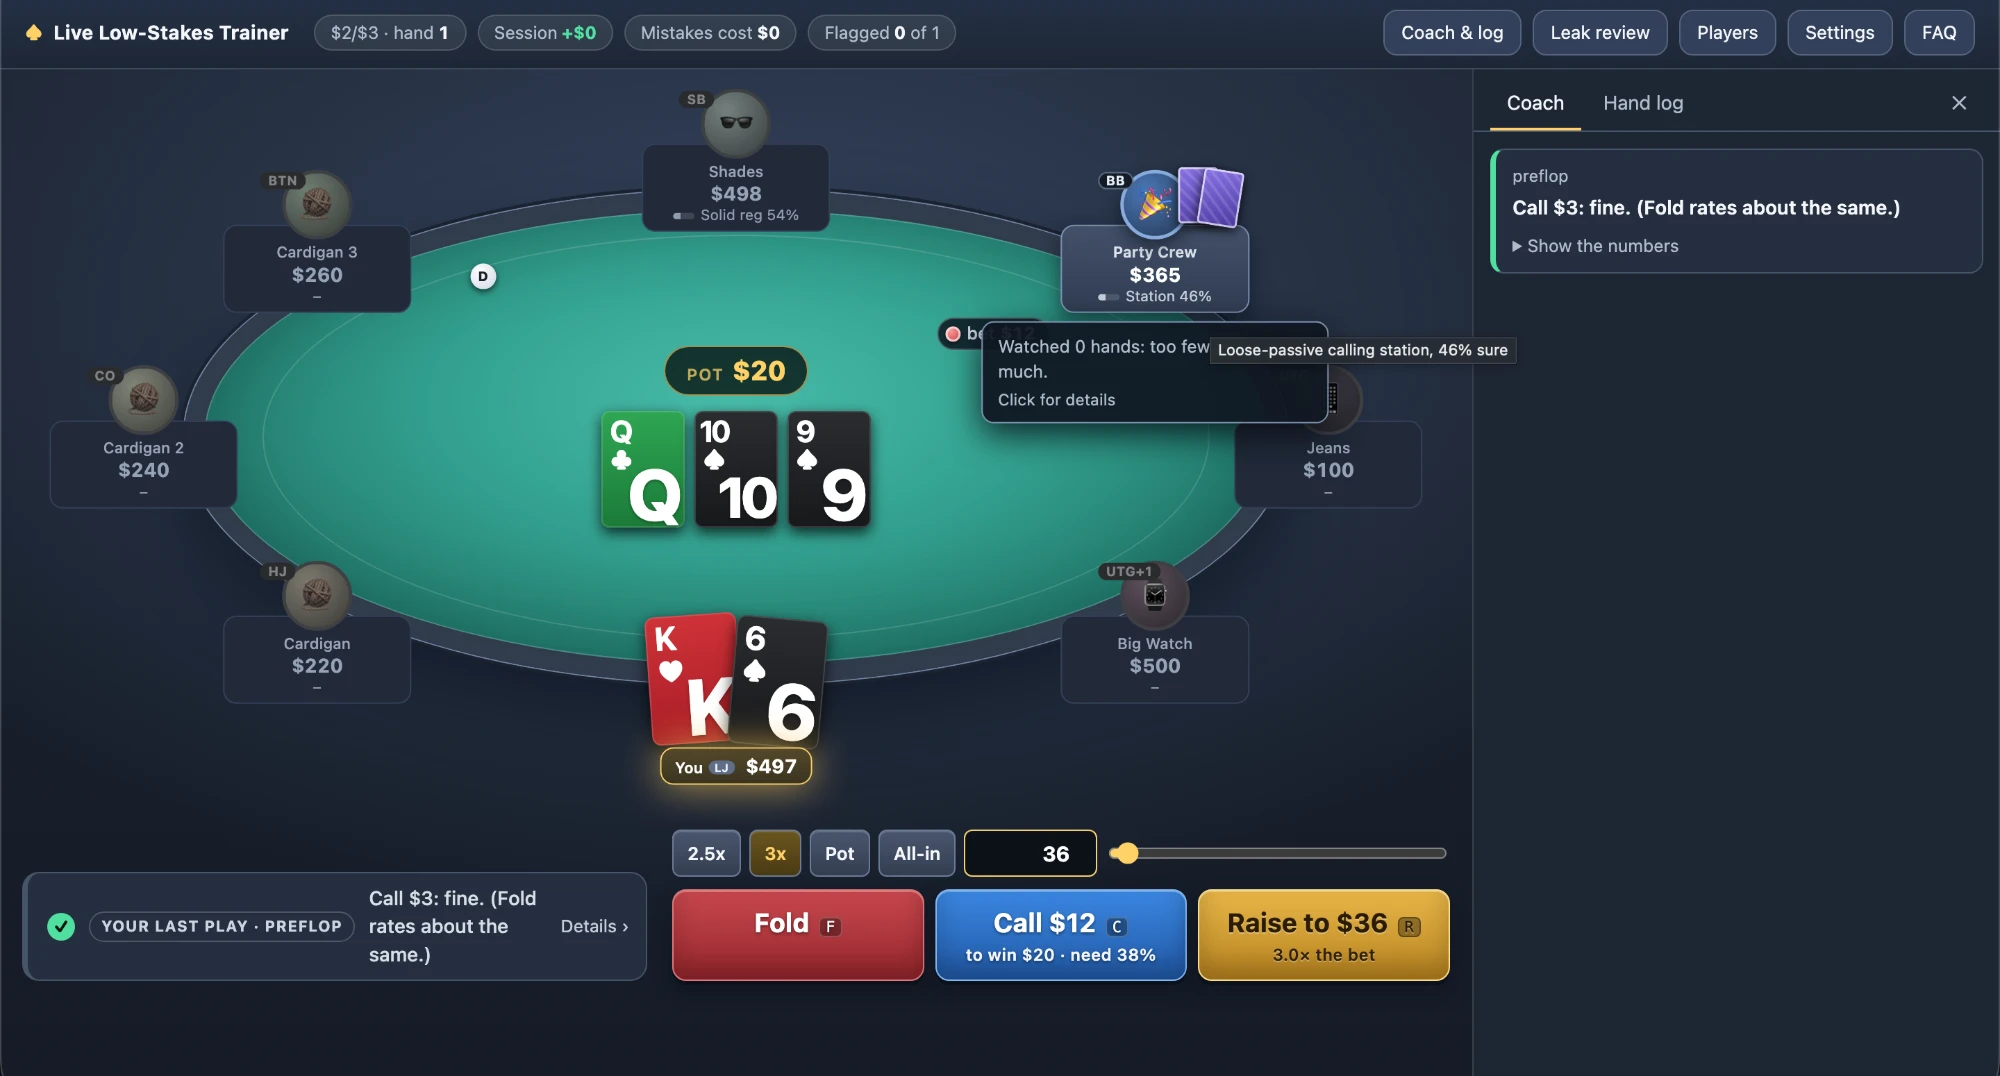
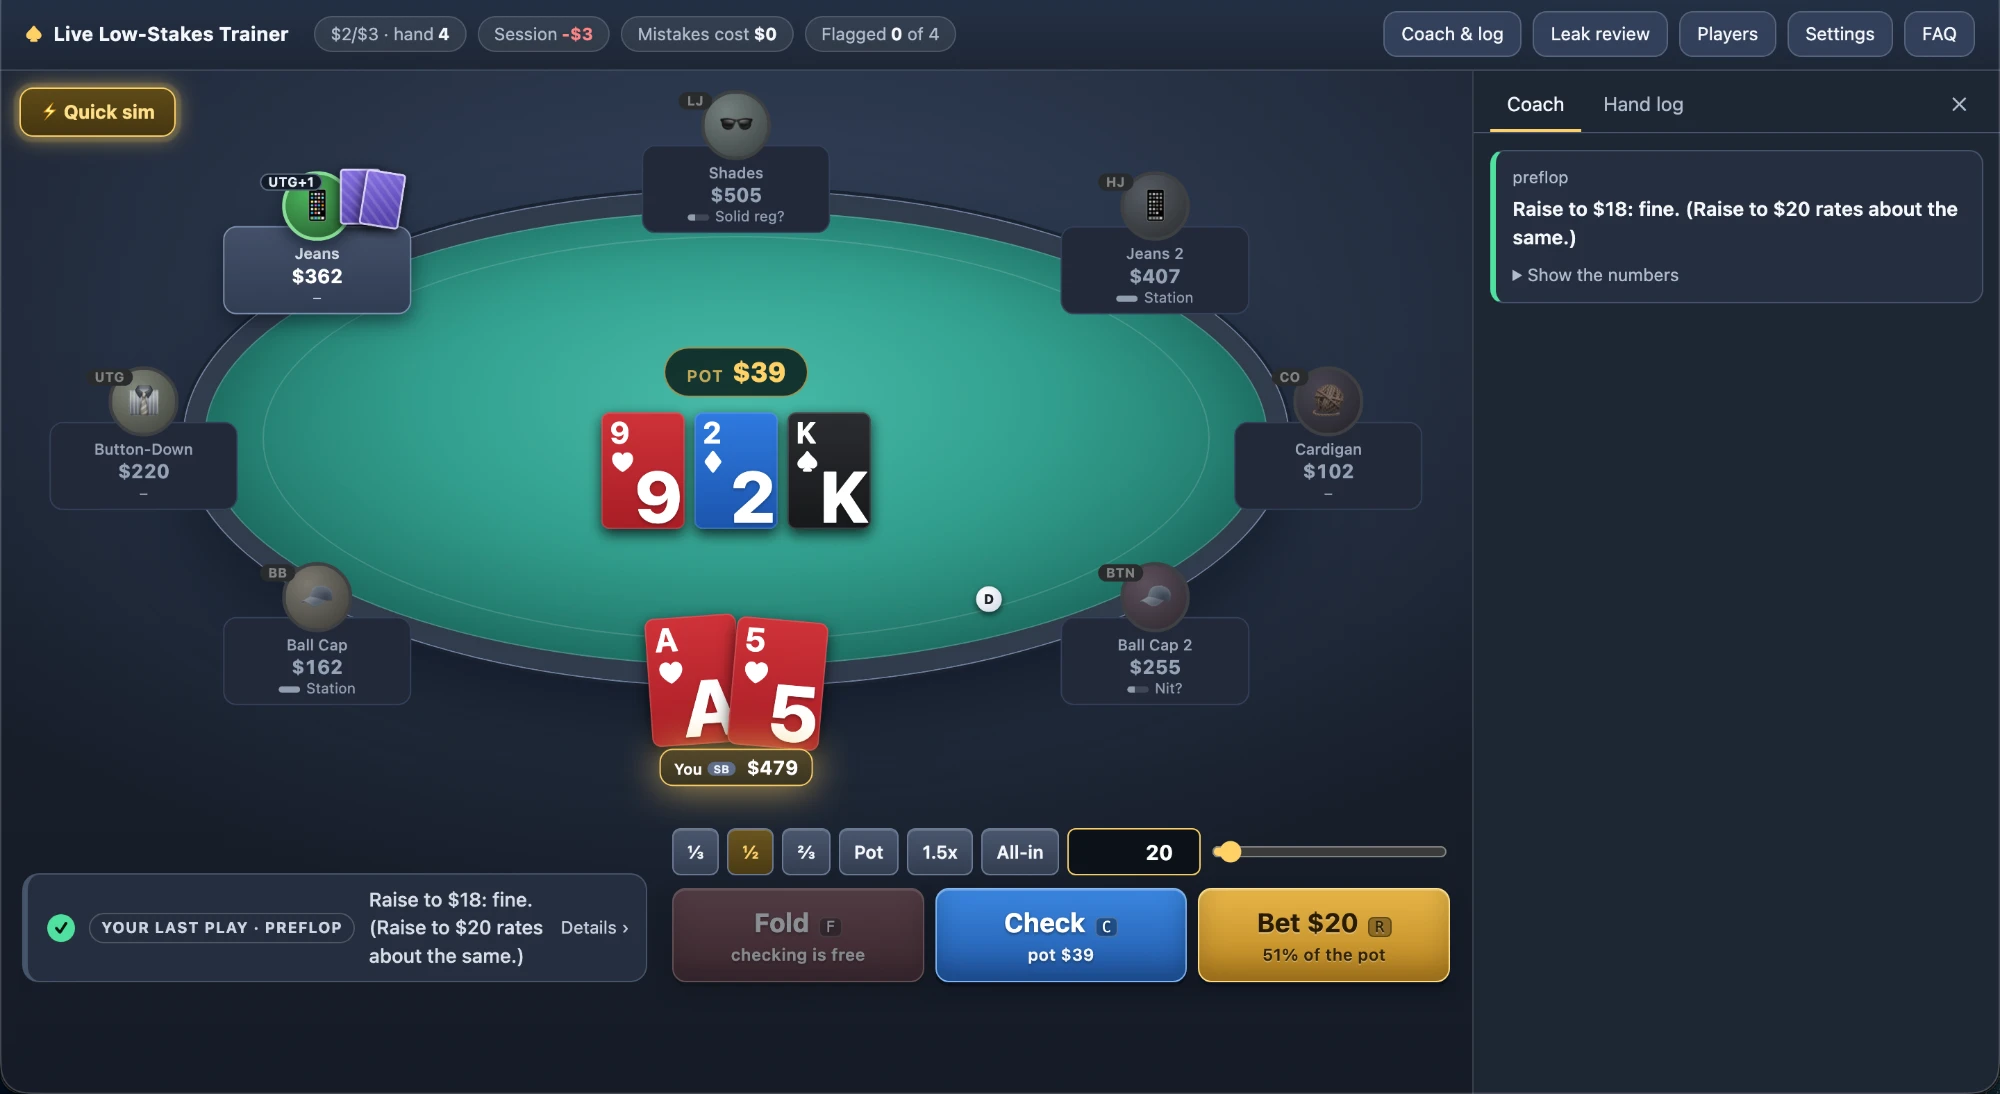
README screenshots: table, hover box, player card; coach strip no longer squeezes its text

diff --git a/src/ui/table.css b/src/ui/table.css
@@ -774,3 +774,11 @@ body:has(.drill-chip) #sim-wrap { display: none; }
   @keyframes simglow { 50% { box-shadow: 0 0 0 4px #ffd16633, 0 0 18px #ffd166aa; } }
   #btn-sim.fresh { animation: simglow 1.8s ease-in-out infinite; }
 }
+
+/* coach strip: label on its own line above the verdict, so the text never gets squeezed */
+.toast { display: grid; grid-template-columns: auto 1fr auto; column-gap: 12px; row-gap: 3px; align-items: center; }
+.toast .t-icon { grid-column: 1; grid-row: 1 / span 2; }
+.toast .t-tag { grid-column: 2; grid-row: 1; justify-self: start; }
+.toast .t-main { grid-column: 2; grid-row: 2; }
+.toast .t-more { grid-column: 3; grid-row: 1 / span 2; }
+.toast.quiet .t-main { grid-row: 1; }

diff --git a/README.md b/README.md
@@ -69,6 +69,14 @@ Click any opponent to see what you have observed about them.
 Hands deal on automatically while your play is green. Anything flagged stops the table so
 you can read why.
 
+<p>
+  <img src="docs/hover.png" alt="Hovering over a player shows what you have seen them do" width="38%">
+  &nbsp;
+  <img src="docs/player.png" alt="A player's card: every showdown, how they played it, and the coach's read" width="50%">
+</p>
+
+*Hover over a player for what you have picked up; click for every hand they have shown.*
+
 ## The opponents
 
 | Type | In one line |
